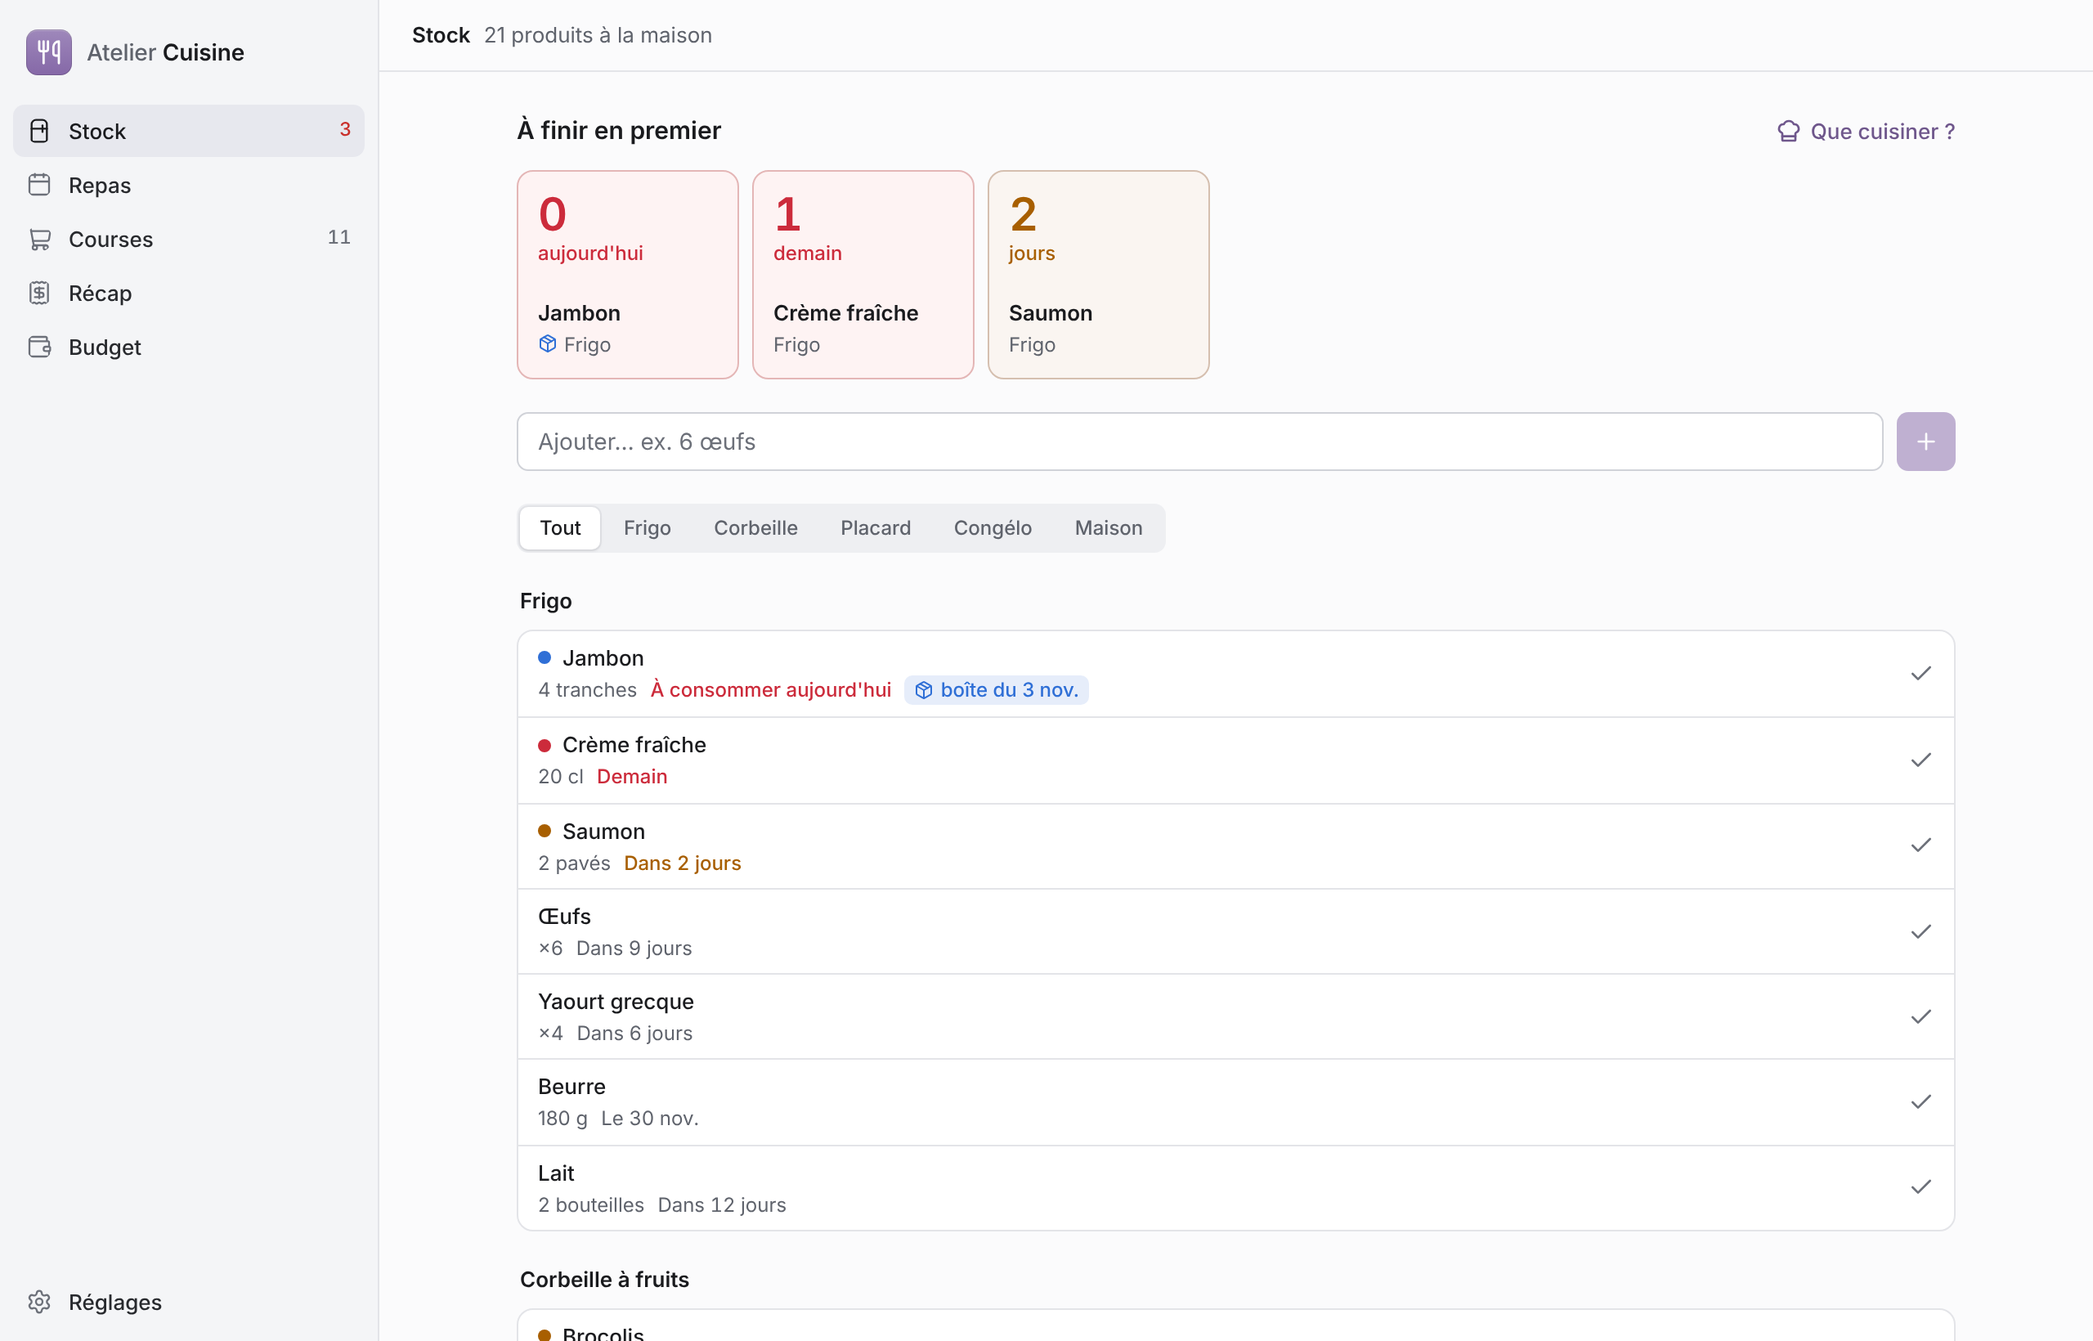
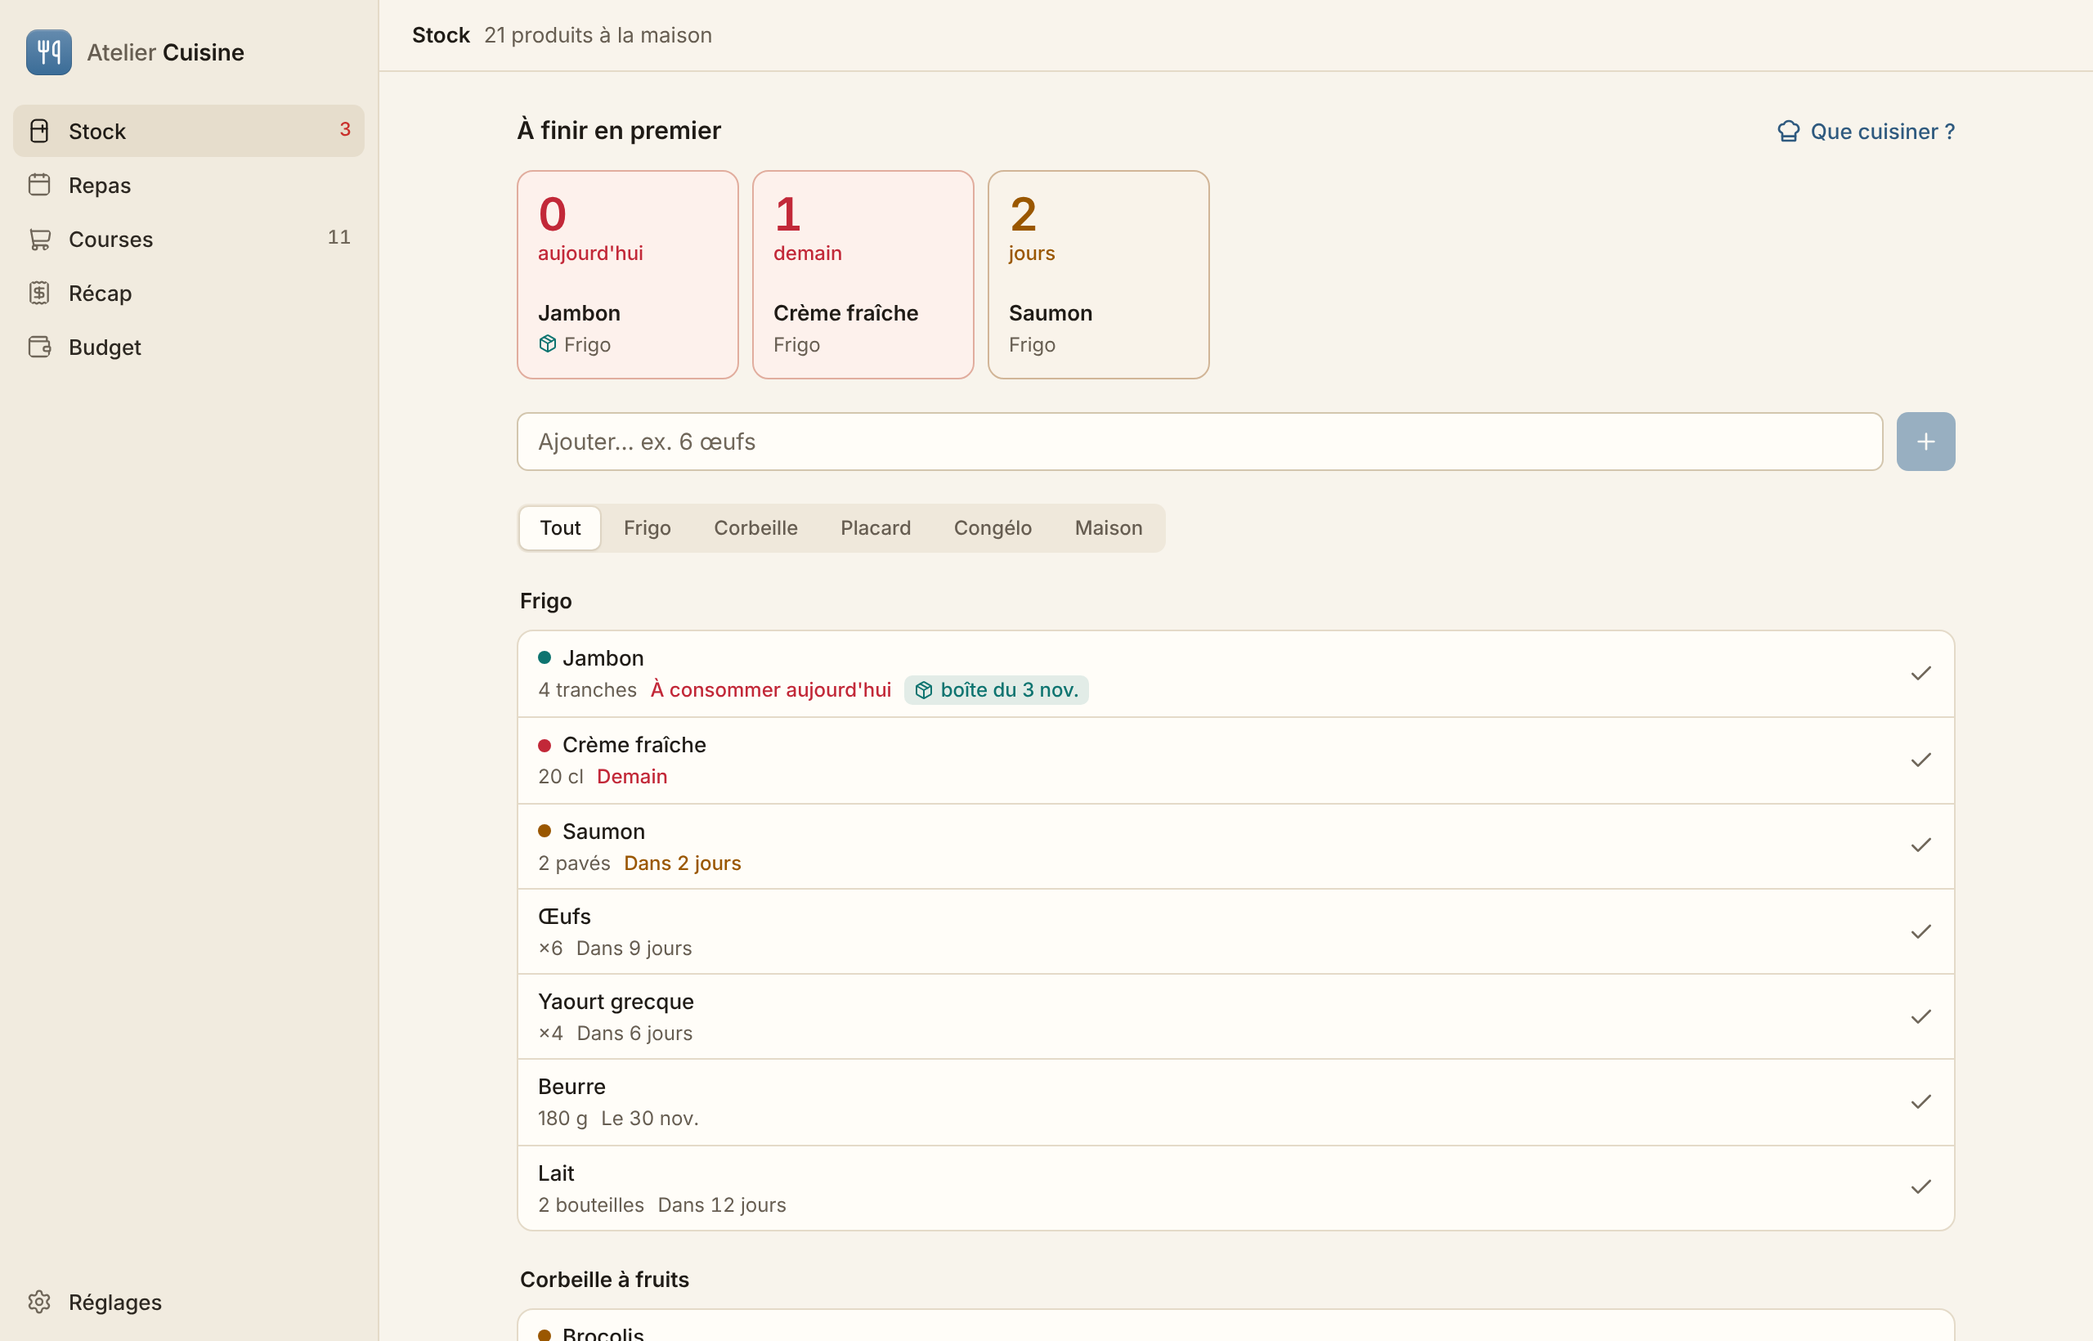
docs(design): palette du foyer et signature bleu acier
DESIGN.md, CLAUDE.md et README décrivent le crème / bleu nuit, la
signature #3a6c97, la sarcelle « mis en boîte » et les nouveaux jetons ;
captures refaites avec des données simulées.

Claude-Session: https://claude.ai/code/session_01H9uGifEaXxkMuqMiB9L3cZ

diff --git a/design/DESIGN.md b/design/DESIGN.md
@@ -6,11 +6,11 @@ L'app de cuisine du foyer d'Auré et François : le stock du frigo et des placar
 
 ## Direction : charte v2 « Linear » de la suite Atelier
 
-L'app suit le système commun de la suite (règles complètes : `Atelier_Deploy/DESIGN.md`, contrat : `Atelier_Projets/docs/SUITE.md` §1) : **une structure neutre en gris froids**, la même dans toutes les apps, en clair comme en sombre, plate au repos, traits de 1 px, police Inter. Chaque app garde **sa couleur signature comme seul accent** ; pour Cuisine, la **lavande `#8568a7`** (`--atelier-sig-cuisine`, 4,5:1 avec du texte blanc).
+L'app suit le système commun de la suite (règles complètes : `Atelier_Deploy/DESIGN.md`, contrat : `Atelier_Projets/docs/SUITE.md` §1) : plate au repos, traits de 1 px, police Inter, clair et sombre. Comme les deux autres apps du foyer (Dates et Suivi), Cuisine prend la **palette du foyer** (§3 bis de `atelier-brand.css`) : fond **crème** en clair (`#f8f4ec`), **bleu nuit** en sombre (`#0b1220`), au lieu des gris froids des autres apps. Chaque app garde **sa couleur signature comme seul accent** ; pour Cuisine, le **bleu acier `#3a6c97`** (`--atelier-sig-cuisine`, 5,6:1 avec du texte blanc ; avant : lavande `#8568a7`).
 
-- La lavande ne sert qu'à ce qui a un sens : bouton principal (plein, dans les deux thèmes), sélection (puce pressée, type de repas choisi, case cochée), focus, liens, l'icône de l'app, la courbe des prix et la jauge Sorties / Resto (une seule mesure).
+- Le bleu acier ne sert qu'à ce qui a un sens : bouton principal (plein, dans les deux thèmes), sélection (puce pressée, type de repas choisi, case cochée), focus, liens, l'icône de l'app, la courbe des prix et la jauge Sorties / Resto (une seule mesure).
 - Pas de halo, de lueur, de grille de fond, de `text-shadow`, de contour lumineux ni de barre de couleur à gauche. Une ombre seulement pour ce qui flotte : feuilles, toasts, bulle du graphique, barre « Valider & archiver ».
-- Navigation : l'onglet courant a un fond neutre (`--atelier-surface-3`), jamais de couleur.
+- Navigation : l'onglet courant a un fond neutre (`--atelier-surface-3`, crème foncé ou bleu nuit clair), jamais de couleur.
 
 ### Le kit commun
 
@@ -18,7 +18,7 @@ L'app suit le système commun de la suite (règles complètes : `Atelier_Deploy/
 
 - Activation : `<html data-atelier-app="cuisine">` (`frontend/index.html`).
 - Thème : choix **Système / Clair / Sombre** dans Réglages → Apparence, branché sur `window.atelierTheme.set(pref)`. `atelier-theme.js` est inséré tel quel en script bloquant au début de `<head>` par `vite.config.ts` ; il pose `data-theme="light|dark"`, `data-theme-pref` et la classe `dark` avant l'affichage, et garde la préférence dans `localStorage["atelier:theme"]` (cookie `atelier_theme` sur le domaine de la suite quand l'app y est servie). L'ancienne préférence (`theme` dans `atelier.reglages`) est reprise une fois puis retirée.
-- Barre d'état : un petit script d'`index.html` suit `data-theme` et met `theme-color` à `#fbfbfc` (clair) ou `#0f1012` (sombre), les fonds `--atelier-bg`. Le manifeste PWA et la fenêtre Tauri partent de `#fbfbfc`.
+- Barre d'état : un petit script d'`index.html` suit `data-theme` et met `theme-color` à `#f8f4ec` (crème, clair) ou `#0b1220` (bleu nuit, sombre), les fonds `--atelier-bg`. Le manifeste PWA et la fenêtre Tauri partent de `#f8f4ec`.
 
 ### Jetons de l'app (`tokens.css`)
 
@@ -33,26 +33,28 @@ Les noms de l'app sont branchés sur le kit ; leurs valeurs suivent le thème to
 | `--contour` / `--trait` / `--ligne` | `--atelier-border` / `-border-soft` / `-line` | cartes ; champs, boutons, puces ; séparateurs |
 | `--encre` / `--encre-2` / `--encre-3` | `--atelier-text` / `-muted` / `-faint` | texte ; secondaire ; méta, icônes au repos |
 | `--signature` / `--signature-survol` | `--atelier-signature` / `-hover` | bouton principal, case cochée, focus |
-| `--signature-texte` | `--atelier-ink` | lavande en texte ou en icône (liens, numéros d'étapes) |
+| `--signature-texte` | `--atelier-ink` | bleu acier en texte ou en icône (liens, numéros d'étapes) |
+| `--trace` | `--atelier-chart-1` (sombre : 85 % de la signature + blanc) | graphique d'une seule mesure : jauge Sorties / Resto, courbe des prix (≥ 3:1 sur la surface et le rail en sombre) |
 | `--signature-douce` / `--signature-legere` | `--atelier-signature-soft` / `-faint` | sélection ; ligne du jour dans le semainier |
 | `--ombre-flottant` | `--atelier-glow-strong` | ce qui flotte seulement |
-| `--frais` / `--bientot` / `--urgent` | inchangés : `#3DDC97` / `#FFB347` / `#FF5C6C` (clair `#12804F` / `#A85F00` / `#CC2B3B`) | fraîcheur (et hausses de prix pour le rouge) |
-| `--boite` | inchangé : `#78B4FF` (clair `#2F6FD6`) | produit mis dans une boîte |
-| `--data-ali` / `--data-maison` | inchangés : `#22A86B` / `#9D7BF0` (clair `#1A8F5B` / `#7A56D8`) | budgets Alimentaire / Maison & hygiène |
+| `--sur-frais` / `--sur-alerte` | blanc (sombre : `--atelier-bg`) | coche sur le vert « à la maison », chiffre sur le rouge d'alerte : en sombre ces couleurs sont claires, le texte devient bleu nuit |
+| `--frais` / `--bientot` / `--urgent` | `#3DDC97` / `#FFB347` / `#FF5C6C` (clair `#12804F` / `#9A5700` / `#C22838`, un cran plus sombres sur le crème : ≥ 4,5:1 aussi sur les tuiles et pastilles teintées) | fraîcheur (et hausses de prix pour le rouge) |
+| `--boite` | sarcelle `#4FD1C5` (clair `#0E7470`) ; avant bleu, trop proche du bleu acier | produit mis dans une boîte |
+| `--data-ali` / `--data-maison` | `#22A86B` / `#9D7BF0` (clair `#1A8F5B` / `#7A56D8`) | budgets Alimentaire / Maison & hygiène |
 
 Densité : les jetons `--t-base`, `--t-champ`, `--h-ctrl`, `--h-ctrl-sm`, `--h-row` valent 15 px / 16 px / 44 / 36 / 52 px au téléphone (cibles tactiles, pas de zoom automatique de Safari) et 13 px / 14 px / 32 / 28 / 40 px sur un écran de 860 px et plus avec une souris.
 
 ### Couleurs de données
 
-- **Fraîcheur** (spec du foyer) : rouge à moins de 2 jours, orange de 2 à 5 jours, **bleu** pour un produit mis en boîte. Dans les listes, une pastille de 8 px devant le nom et l'échéance en couleur ; un produit frais reste neutre (seuls les états qui demandent d'agir sont colorés). Les tuiles « À finir en premier » sont à peine teintées de la couleur de leur donnée, le chiffre du compte à rebours dans cette couleur.
-- **Budget** : vert pour l'Alimentaire (rayons 1 à 9), violet pour Maison & hygiène (rayons 10 et 11), lavande de la signature pour Sorties / Resto. Le graphique a une légende, une bulle au survol et une vue tableau.
+- **Fraîcheur** (spec du foyer) : rouge à moins de 2 jours, orange de 2 à 5 jours, **sarcelle** pour un produit mis en boîte. Dans les listes, une pastille de 8 px devant le nom et l'échéance en couleur ; un produit frais reste neutre (seuls les états qui demandent d'agir sont colorés). Les tuiles « À finir en premier » sont à peine teintées de la couleur de leur donnée, le chiffre du compte à rebours dans cette couleur.
+- **Budget** : vert pour l'Alimentaire (rayons 1 à 9), violet pour Maison & hygiène (rayons 10 et 11), bleu acier de la signature pour Sorties / Resto. Le graphique a une légende, une bulle au survol et une vue tableau.
 - Le vert « à la maison » marque les ingrédients disponibles (recette, jauge des idées). Le rouge ne sert qu'aux alertes et aux hausses de prix.
 
 ## Typographie
 
-**Inter** variable, embarquée (aucune requête réseau), variantes `cv11` et `ss03`. Hiérarchie portée par la graisse (400 / 500 / 600). Sur Mac : base 13 px, titre d'écran dans la barre haute en 13 px / 600, titres de section 15 px / 600. Au téléphone : base 15 px, titre d'écran 24 px / 600. Étapes de recette en 17 px, interligne 1,6, numérotées dans une pastille lavande : elles se lisent à un bras de distance. Chiffres tabulaires pour les montants, dates, quantités et le compte à rebours. Les emoji des rayons et des recettes sont des données du foyer (spec), pas des icônes d'interface : toutes les icônes viennent de Lucide.
+**Inter** variable, embarquée (aucune requête réseau), variantes `cv11` et `ss03`. Hiérarchie portée par la graisse (400 / 500 / 600). Sur Mac : base 13 px, titre d'écran dans la barre haute en 13 px / 600, titres de section 15 px / 600. Au téléphone : base 15 px, titre d'écran 24 px / 600. Étapes de recette en 17 px, interligne 1,6, numérotées dans une pastille bleu acier : elles se lisent à un bras de distance. Chiffres tabulaires pour les montants, dates, quantités et le compte à rebours. Les emoji des rayons et des recettes sont des données du foyer (spec), pas des icônes d'interface : toutes les icônes viennent de Lucide.
 
-La marque suit le balisage commun : `button.atelier-brand` > `.atelier-brand__tile` (carré arrondi en dégradé de la lavande, glyphe Lucide `utensils` blanc) + « Atelier » en gris puis « Cuisine ». Un clic ouvre « À propos » (`dialog.atelier-about`). Composant : `frontend/src/components/Marque.tsx`.
+La marque suit le balisage commun : `button.atelier-brand` > `.atelier-brand__tile` (carré arrondi en dégradé du bleu acier, glyphe Lucide `utensils` blanc) + « Atelier » en texte secondaire puis « Cuisine ». Un clic ouvre « À propos » (`dialog.atelier-about`). Composant : `frontend/src/components/Marque.tsx`.
 
 ## Les 5 onglets
 
@@ -66,7 +68,7 @@ La marque suit le balisage commun : `button.atelier-brand` > `.atelier-brand__ti
 
 Mise en page :
 - **Mac (≥ 860 px)** : coquille du portail : barre latérale de 232 px (marque en haut, onglets de 30 px, Réglages en pied), barre haute collante de 44 px avec le titre de l'écran, son résumé et son action, contenu sur une colonne de 880 px, lignes de liste de 40 px, feuilles en dialogues centrés.
-- **iPhone** : barre d'onglets en bas (pastille grise derrière l'icône courante, zone de sécurité respectée) plutôt que la rangée de pastilles du portail, parce que l'app se tient d'une main en magasin ; Réglages en haut à droite ; feuilles qui montent du bas ; lignes de 52 px.
+- **iPhone** : barre d'onglets en bas (pastille neutre derrière l'icône courante, zone de sécurité respectée) plutôt que la rangée de pastilles du portail, parce que l'app se tient d'une main en magasin ; Réglages en haut à droite ; feuilles qui montent du bas ; lignes de 52 px.
 
 ## Principes
 
@@ -74,11 +76,11 @@ Mise en page :
 2. **Saisie en une ligne.** « 2 kg de patates » donne quantité, unité, rayon, emplacement et date estimée, grâce au catalogue du foyer.
 3. **Chaque action dit ce qu'elle fait.** « Valider & archiver », « C'est cuisiné », « Confirmer et ajouter au stock & budget » ; le toast reprend le même verbe.
 4. **On vérifie avant d'enregistrer.** Un ticket lu (avec ou sans IA) passe toujours par une modale de vérification ; une déduction de stock se décoche.
-5. **Accessibilité.** Cibles de 44 px au téléphone, anneau de focus lavande visible, contrastes vérifiés sur les deux thèmes, `prefers-reduced-motion` et `prefers-reduced-transparency` respectés.
+5. **Accessibilité.** Cibles de 44 px au téléphone, anneau de focus bleu acier visible, contrastes vérifiés sur les deux thèmes, `prefers-reduced-motion` et `prefers-reduced-transparency` respectés.
 
 ## Icône
 
-L'icône de l'app est la même partout : carré arrondi (rayon 22 %) en dégradé vertical de la lavande (`#9E88BB` → `#8568A7`), glyphe Lucide `utensils` en trait blanc. Sources dans [`icone/`](icone/) :
+L'icône de l'app est la même partout : carré arrondi (rayon 22 %) en dégradé vertical du bleu acier (`#658BAE` → `#3A6C97`, le haut = 78 % de la signature + blanc, comme `.atelier-brand__tile`), glyphe Lucide `utensils` en trait blanc. Sources dans [`icone/`](icone/) :
 
 - `icone-carre.svg` (copie de `frontend/public/icone.svg`) : favicon, PWA, iPhone. Les PNG se régénèrent avec `cd frontend && npm install --no-save sharp && node scripts/icones.mjs`.
 - `icone-mac.svg` et `icone-mac-1024.png` : la même icône sur la grille macOS (carré de 824 px, ombre du système), pour le Dock : `cd frontend && npx tauri icon ../design/icone/icone-mac-1024.png -o src-tauri/icons` (supprimer ensuite les dossiers `android/` et `ios/` générés).

diff --git a/CLAUDE.md b/CLAUDE.md
@@ -25,7 +25,7 @@ Correspondances de noms : `stockLevel` FULL / HALF / ONE_MEAL / LOW → `plein` 
 - TypeScript strict, pas de `any`. Les 11 rayons existent en double (table `aisles` et `frontend/src/lib/rayons.ts`) ; la normalisation des noms aussi (`normaliser.ts` et fonctions SQL) : modifier les deux côtés.
 - Toute nouvelle table : RLS activée, politiques par `user_id`, fonctions SQL en `security invoker` avec `search_path = ''`.
 - Une session de courses validée (liste ou ticket importé) passe toujours par `archiver_courses` : Récap, Stock et Budget restent cohérents.
-- Design : charte v2 « Linear » de la suite Atelier (`design/DESIGN.md`, règles communes dans `Atelier_Deploy/DESIGN.md`) : structure neutre gris froid commune à la suite, clair et sombre, plate au repos, traits de 1 px, police Inter ; la signature de Cuisine, **lavande `#8568a7`** (`--atelier-sig-cuisine`), ne sert qu'au bouton principal (plein), à la sélection, au focus, aux liens et à l'icône (Lucide `utensils`). Pas de halo, de lueur, de grille de fond ni de barre de couleur à gauche. `frontend/src/styles/atelier-brand/` contient des **copies verbatim** de la suite (`atelier-brand.css`, `atelier-theme.js`, les deux woff2 Inter et leur licence) : ne jamais les éditer ici. `<html data-atelier-app="cuisine">` ; thème = préférence commune Système / Clair / Sombre de `atelier-theme.js` (`window.atelierTheme`, `localStorage["atelier:theme"]`), inséré en tête de `<head>` par `vite.config.ts`, qui pose `data-theme` + classe `dark`. `tokens.css` branche les jetons de l'app sur les `--atelier-*` ; `app.css` porte tous les composants. Les couleurs qui portent un sens ne changent pas : fraîcheur `--frais` / `--bientot` / `--urgent` (seuls l'urgent et le bientôt sont colorés), `--boite`, budgets `--data-ali` / `--data-maison`. Cibles tactiles de 44 px au téléphone, densité Mac (13 px, lignes de 40 px) avec une souris.
+- Design : charte v2 « Linear » de la suite Atelier (`design/DESIGN.md`, règles communes dans `Atelier_Deploy/DESIGN.md`) : palette du foyer (comme Dates et Suivi : crème `#f8f4ec` en clair, bleu nuit `#0b1220` en sombre, posée par la marque commune), plate au repos, traits de 1 px, police Inter ; la signature de Cuisine, **bleu acier `#3a6c97`** (`--atelier-sig-cuisine`), ne sert qu'au bouton principal (plein), à la sélection, au focus, aux liens et à l'icône (Lucide `utensils`). Pas de halo, de lueur, de grille de fond ni de barre de couleur à gauche. `frontend/src/styles/atelier-brand/` contient des **copies verbatim** de la suite (`atelier-brand.css`, `atelier-theme.js`, les deux woff2 Inter et leur licence) : ne jamais les éditer ici. `<html data-atelier-app="cuisine">` ; thème = préférence commune Système / Clair / Sombre de `atelier-theme.js` (`window.atelierTheme`, `localStorage["atelier:theme"]`), inséré en tête de `<head>` par `vite.config.ts`, qui pose `data-theme` + classe `dark`. `tokens.css` branche les jetons de l'app sur les `--atelier-*` ; `app.css` porte tous les composants. Les couleurs qui portent un sens ne changent pas : fraîcheur `--frais` / `--bientot` / `--urgent` (seuls l'urgent et le bientôt sont colorés), `--boite` (sarcelle, loin de la signature), budgets `--data-ali` / `--data-maison` ; contrastes vérifiés sur crème et bleu nuit (texte ≥ 4,5:1, graphisme ≥ 3:1). Fonds fixes (`theme-color`, manifeste, fenêtre Tauri) : `#f8f4ec` / `#0b1220`. Cibles tactiles de 44 px au téléphone, densité Mac (13 px, lignes de 40 px) avec une souris.
 
 ## Commandes
 

diff --git a/README.md b/README.md
@@ -1,6 +1,6 @@
 # Atelier Cuisine
 
-L'app de cuisine du foyer d'Auré et François : le stock du frigo et des placards avec les dates de péremption, le semainier des repas, la liste de courses, les tickets de caisse archivés et le budget. Une seule app, sur **Mac** (app à double-cliquer) et sur **iPhone** (app sur l'écran d'accueil), synchronisée en direct, dans la charte v2 « Linear » de la suite Atelier : structure neutre claire ou sombre, accent lavande.
+L'app de cuisine du foyer d'Auré et François : le stock du frigo et des placards avec les dates de péremption, le semainier des repas, la liste de courses, les tickets de caisse archivés et le budget. Une seule app, sur **Mac** (app à double-cliquer) et sur **iPhone** (app sur l'écran d'accueil), synchronisée en direct, dans la charte v2 « Linear » de la suite Atelier : palette du foyer (crème en clair, bleu nuit en sombre), accent bleu acier.
 
 ![Stock sur Mac](design/captures/mac-1-stock.png)
 
